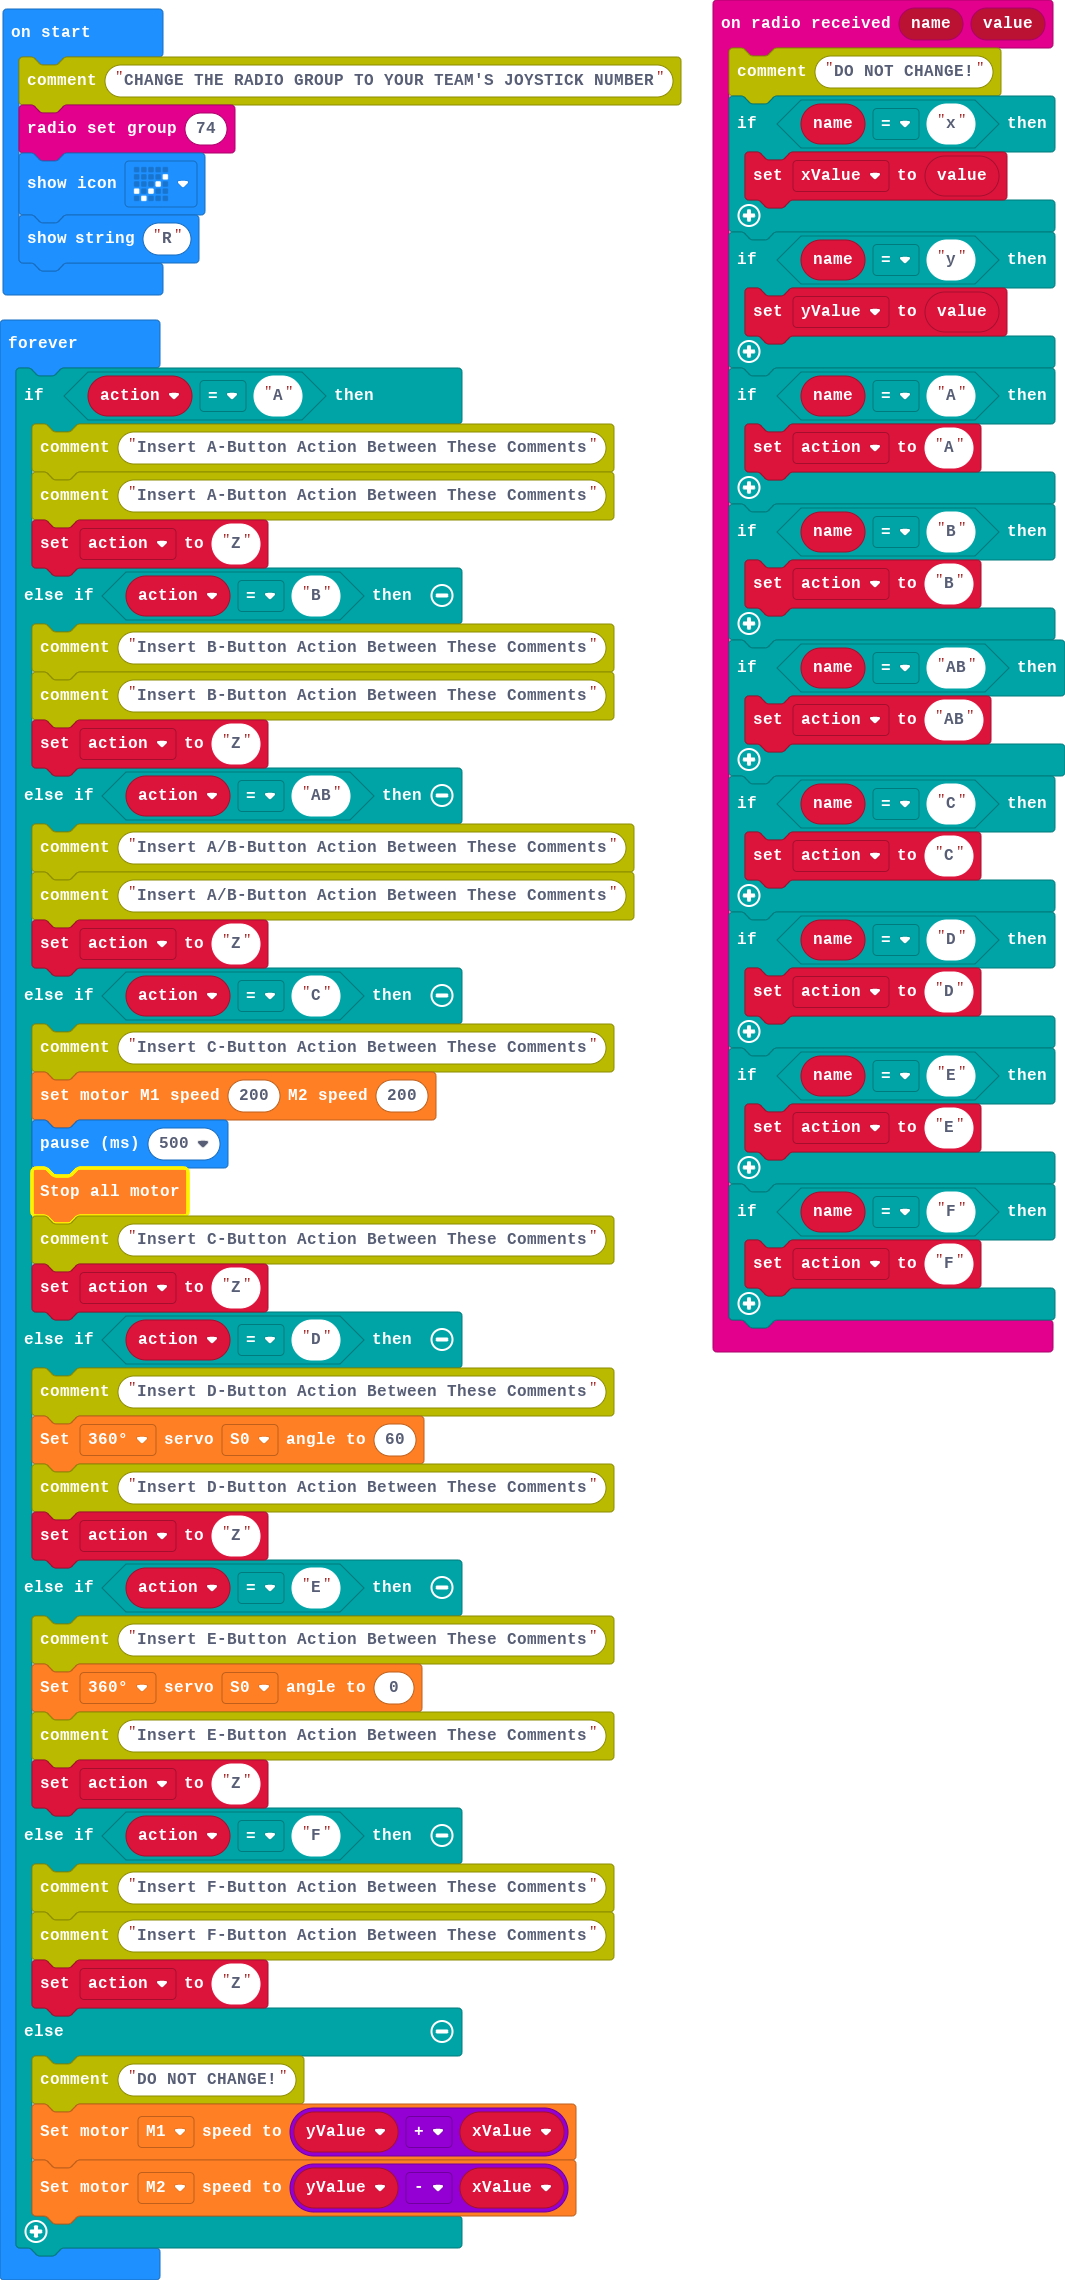
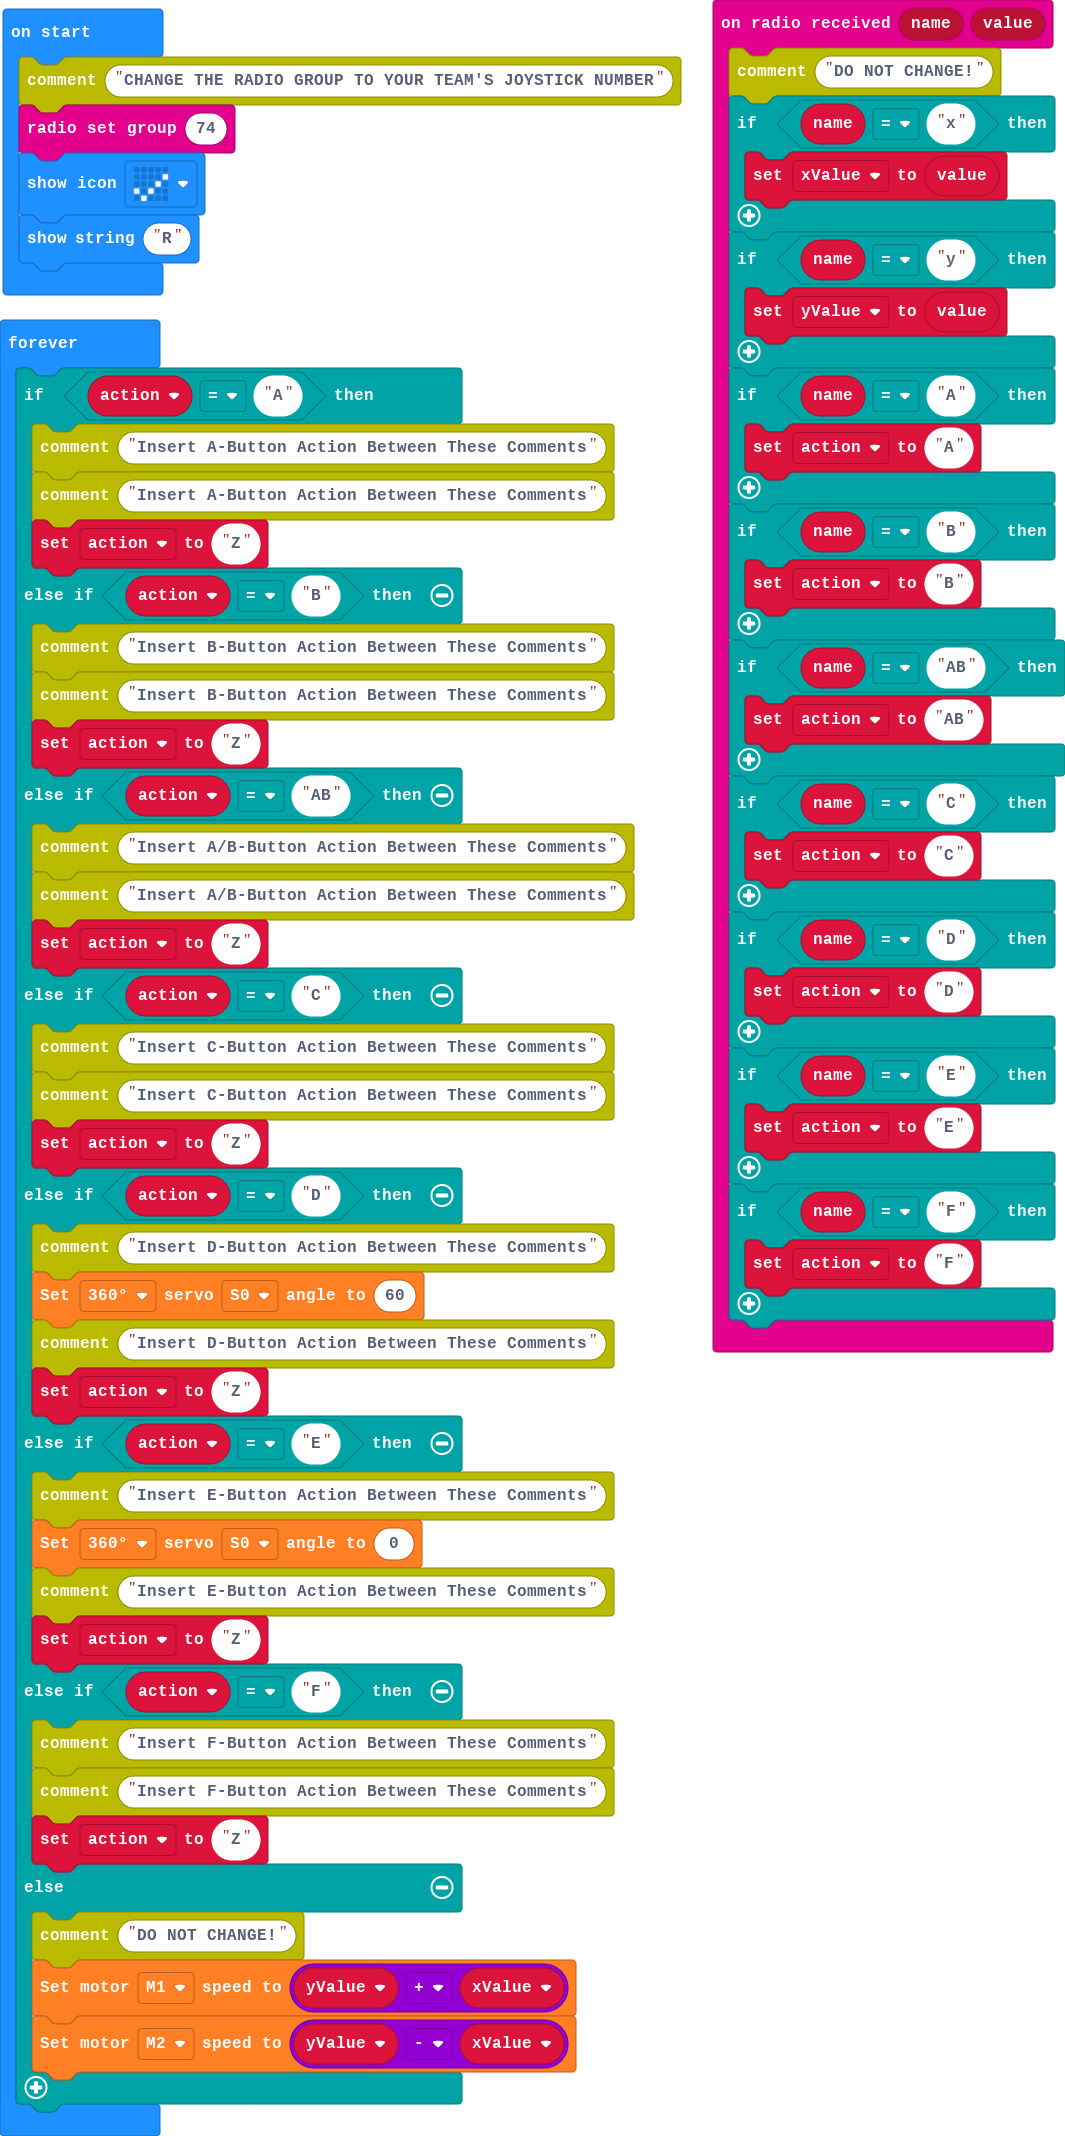
Update main.blocks, main.ts

diff --git a/main.ts b/main.ts
@@ -50,9 +50,6 @@ basic.forever(function () {
         action = "Z"
     } else if (action == "C") {
         comment.comment("Insert C-Button Action Between These Comments")
-        wuKong.setAllMotor(200, 200)
-        basic.pause(500)
-        wuKong.stopAllMotor()
         comment.comment("Insert C-Button Action Between These Comments")
         action = "Z"
     } else if (action == "D") {
